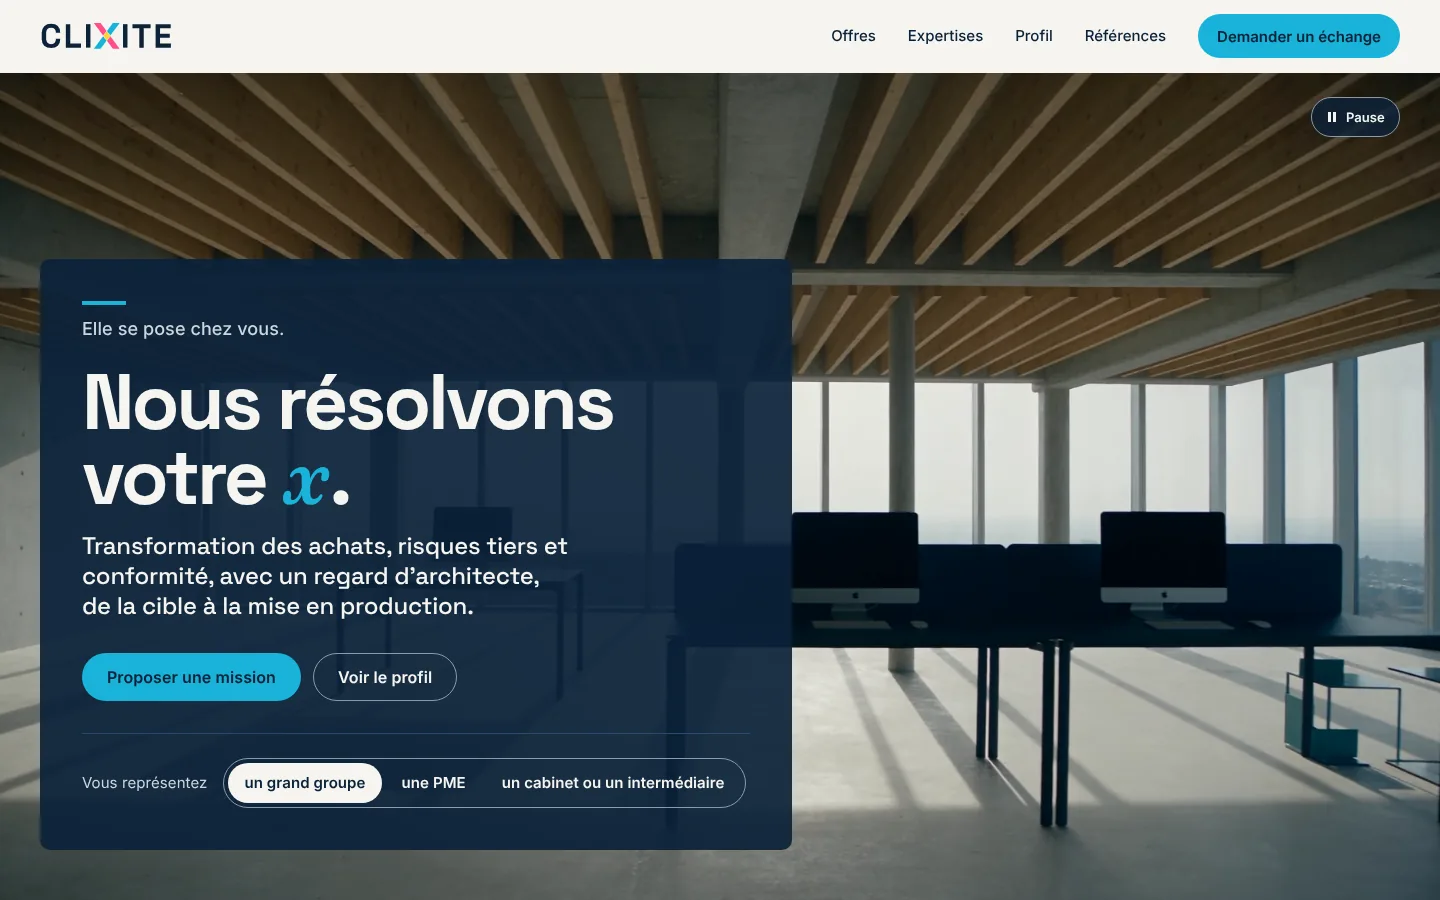
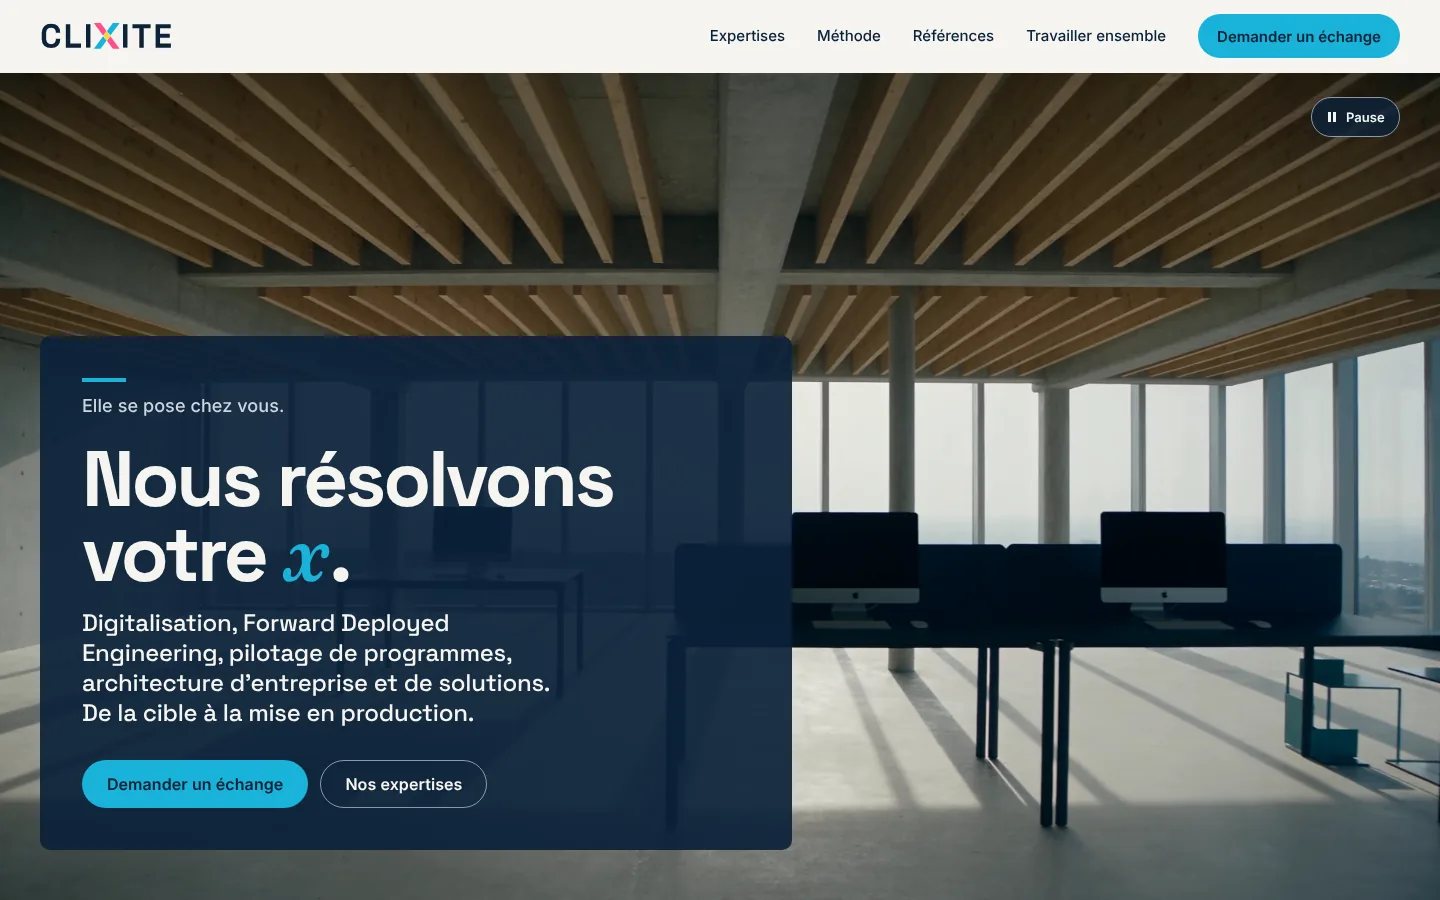
Site d'entreprise : quatre métiers, aucune interactivité, aucun projet détaillé
- Accueil recentré sur Clixite : digitalisation, Forward Deployed Engineering, pilotage de programmes, architecture d'entreprise et de solutions
- Retirés : sélecteur d'acheteur, solveur, repli des compétences, bandeau et page du fondateur (redirection 301), parcours, chiffres et détails de projets
- « Là où nous avons travaillé » : les neuf entreprises de duonexia.com (fichiers vérifiés par empreinte) et Design Plus, sans détail de projet
- Nouvelles sections Engagements et Travailler ensemble ; hub Expertises et page achats allégés ; données structurées centrées sur l'organisation ; llms.txt réécrit
- Charte et DESIGN.md alignés (site d'entreprise, logos, composants), nouvelle capture du hero, image de partage mise à jour

Claude-Session: https://claude.ai/code/session_01Nf9XTMFA6kHCPozw9hhvZN

diff --git a/index.html b/index.html
@@ -405,7 +405,7 @@ footer .right{font-family:var(--mono);font-size:12px;text-align:right}
 <section class="hero" id="hero" role="region" aria-labelledby="titre">
   <div class="o3d-wrap"><canvas class="o3d" id="hero-3d" aria-label="Mot-marque Clixite en relief, animé"></canvas><img width="680" height="257" class="o3d-fallback" src="downloads/logo/clixite-relief-inverse-transparent.svg" alt="Clixite, Enterprise &amp; Solution Architecture" hidden></div>
   <h1 id="titre">Charte graphique</h1>
-  <p class="lede">Clixite est le cabinet d’architecture de solutions de Nicolas Simon. Cette charte fixe la marque, ses règles et ses fichiers. Elle sert à tout le monde : Nicolas, ses partenaires, un imprimeur, un développeur.</p>
+  <p class="lede">Clixite est une société de conseil et d’ingénierie : digitalisation, Forward Deployed Engineering, pilotage de programmes, architecture d’entreprise et de solutions. Cette charte fixe la marque, ses règles et ses fichiers. Elle sert à tout le monde : l’équipe, ses partenaires, un imprimeur, un développeur.</p>
   <p class="hint"><span class="mouse">Déplacez le curseur : <b>le relief suit</b>.</span> <button type="button" class="linkbtn" id="hero-replay">Rejouer l’ouverture</button></p>
   <div class="scrolldown" aria-hidden="true"></div>
 </section>
@@ -421,7 +421,7 @@ footer .right{font-family:var(--mono);font-size:12px;text-align:right}
 <!-- ===================================================== 01 PLATEFORME -->
 <section class="chapter" id="plateforme">
   <header><h2><span class="n">01</span>Plateforme de marque</h2>
-  <p class="lede">Clixite existe depuis 2005. Agence de communication pendant dix ans, le cabinet est devenu ce que son fondateur est devenu : un architecte de solutions et d’entreprise. Il relie la stratégie, les systèmes et la conformité, puis livre.</p></header>
+  <p class="lede">Clixite existe depuis 2005. Agence de communication pendant dix ans, la société est devenue une maison de conseil et d’ingénierie : digitalisation, Forward Deployed Engineering, pilotage de programmes, architecture d’entreprise et de solutions. Elle relie la stratégie, les systèmes et la conformité, puis livre.</p></header>
 
   <h3>L’idée</h3>
   <p class="quote">L’architecte qui relie la stratégie, les systèmes et la conformité. Nous résolvons votre <span class="x">x</span>.</p>
@@ -432,8 +432,8 @@ footer .right{font-family:var(--mono);font-size:12px;text-align:right}
 
   <h3>Deux marchés, un même métier</h3>
   <div class="markets">
-    <div><h4>Grands comptes régulés</h4><p>Banque, assurance, télécom. Procurement, conformité, architecture d’entreprise. Preuves : 800 M€ d’achats dans le périmètre couvert chez Proximus, politique achats en trois niveaux et circuit d’achats tactiques en production chez KBC, direction des achats par intérim chez P&amp;V.</p></div>
-    <div><h4>PME en croissance</h4><p>Audit, choix et connexion des outils existants, automatisation, IA quand elle sert. Architecturer la croissance avec ce qui existe déjà. Preuves : sites et back-offices de Tero et Design Plus, CyGap et Vidango conçus et codés.</p></div>
+    <div><h4>Grands comptes régulés</h4><p>Banque, assurance, télécoms, courtage. Programmes, architecture d’entreprise, achats et conformité, menés jusqu’à la mise en production. Les projets restent confidentiels.</p></div>
+    <div><h4>PME en croissance</h4><p>Audit, choix et connexion des outils existants, automatisation, IA quand elle sert. Architecturer la croissance avec ce qui existe déjà, et digitaliser ce qui se fait encore à la main.</p></div>
   </div>
 
   <h3>Piliers</h3>
@@ -588,7 +588,7 @@ footer .right{font-family:var(--mono);font-size:12px;text-align:right}
     <div class="about"><b>Fraunces Italic</b>La voix éditoriale : citations, chiffres clés, et le x variable. Toujours en italique, jamais en pavé. Graisses 500 et 600.<a href="https://fonts.google.com/specimen/Fraunces">Google Fonts</a></div>
   </div>
   <div class="specimen">
-    <div class="sample mono">DORA · NIS2 · RGPD · EBA · TPRM<br>L1 · L2 · L3<br>#19B3D9 · 800 M€ · 14,8:1</div>
+    <div class="sample mono">DORA · NIS2 · RGPD · EBA · TPRM<br>L1 · L2 · L3<br>#19B3D9 · 2005 · 14,8:1</div>
     <div class="about"><b>JetBrains Mono</b>Données, références, identifiants et étiquettes en capitales espacées. Le clin d’œil au builder. Graisse 500.<a href="https://fonts.google.com/specimen/JetBrains+Mono">Google Fonts</a></div>
   </div>
 
@@ -797,7 +797,7 @@ footer .right{font-family:var(--mono);font-size:12px;text-align:right}
 <section class="chapter" id="ecran">
   <header><h2><span class="n">11</span>Écran et web</h2>
   <p class="lede">www.clixite.be applique cette charte à l’écran avec le Design System 2.0 : des valeurs au format W3C, des contrastes vérifiés à chaque mise en ligne et des composants documentés. Ces règles valent pour tout site ou produit « by Clixite ».</p></header>
-  <figure class="screen"><img src="apercus/www-hero.webp" width="1440" height="900" loading="lazy" alt="Accueil de www.clixite.be : le film de lancement plein cadre, la promesse posée sur une plaque Encre"><figcaption>L’accueil de www.clixite.be, octobre 2026 : le film plein cadre, la promesse sur une plaque Encre.</figcaption></figure>
+  <figure class="screen"><img src="apercus/www-hero.webp" width="1440" height="900" loading="lazy" alt="Accueil de www.clixite.be : le film de lancement plein cadre, la promesse et les quatre métiers posés sur une plaque Encre"><figcaption>L’accueil de www.clixite.be, octobre 2026 : le film plein cadre, la promesse sur une plaque Encre.</figcaption></figure>
   <h3>Le hero de l’accueil</h3>
   <ul class="rules">
     <li>Le film de lancement tourne en boucle, plein cadre, sans titres ni logo : le logo est déjà dans l’en-tête.</li>
@@ -810,8 +810,8 @@ footer .right{font-family:var(--mono);font-size:12px;text-align:right}
   <ul class="rules">
     <li>Sous 240 px de large, le mot-marque se pose sans descripteur (fichiers clixite-maitre-motmarque). Au-dessus, le descripteur est obligatoire.</li>
     <li>Le <em>x</em> en italique Fraunces, deux fois par page au plus : la promesse d’ouverture et l’appel final.</li>
-    <li>Un site par acheteur : grand groupe, PME, cabinet ou intermédiaire. Le sous-titre, l’appel à l’action, les offres, les preuves et l’ordre des logos suivent ce choix.</li>
-    <li>Logos clients : fichiers officiels uniquement, jamais redessinés, teintés par masque CSS et inscrits au registre avec leur source. La publication est décidée par Nicolas Simon ; l’accord écrit du client est archivé dès qu’il est obtenu.</li>
+    <li>Un site d’entreprise : il parle de Clixite et de ses quatre métiers, pas de son fondateur. Aucun projet détaillé, aucun contenu qui change selon le visiteur.</li>
+    <li>Logos « Là où nous avons travaillé » : fichiers officiels, jamais redessinés, teintés par masque CSS et inscrits au registre avec leur source. Ils montrent des environnements de travail, pas des projets. L’accord écrit de chaque entreprise est archivé dès qu’il est obtenu.</li>
     <li>Chaque paire texte et fond est contrôlée à la construction du site : sous 4,5:1, la mise en ligne échoue.</li>
     <li>Espaces insécables et apostrophes courbes se posent automatiquement à la construction.</li>
     <li>Une seule séquence d’ouverture par page, sur la courbe de la charte, en transform et opacité uniquement.</li>
